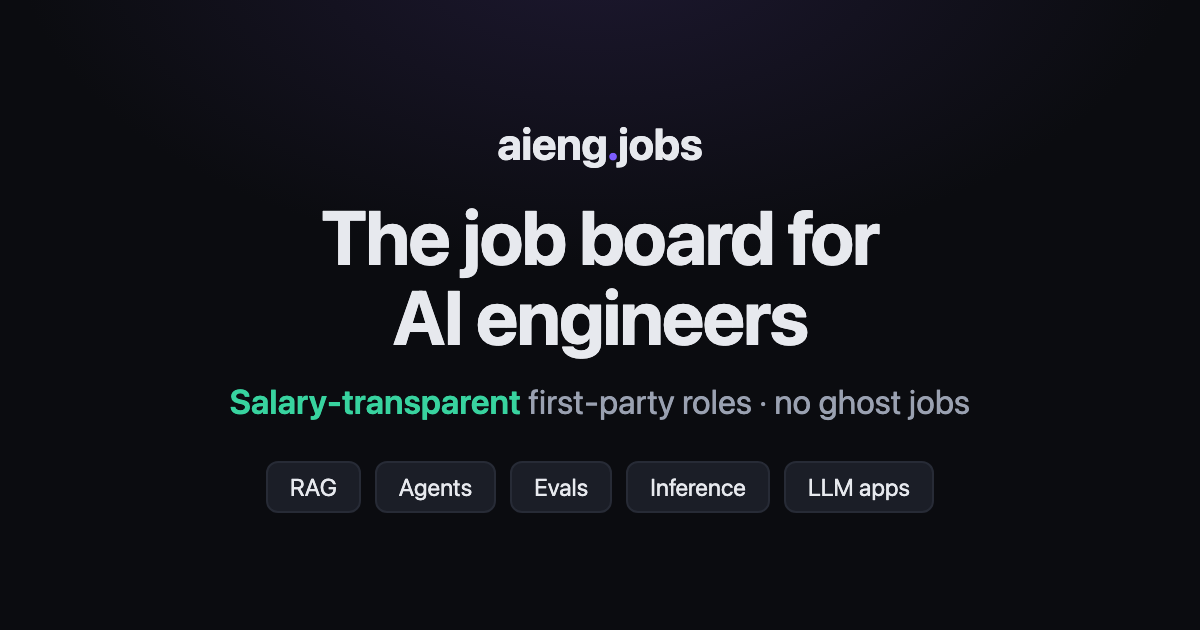
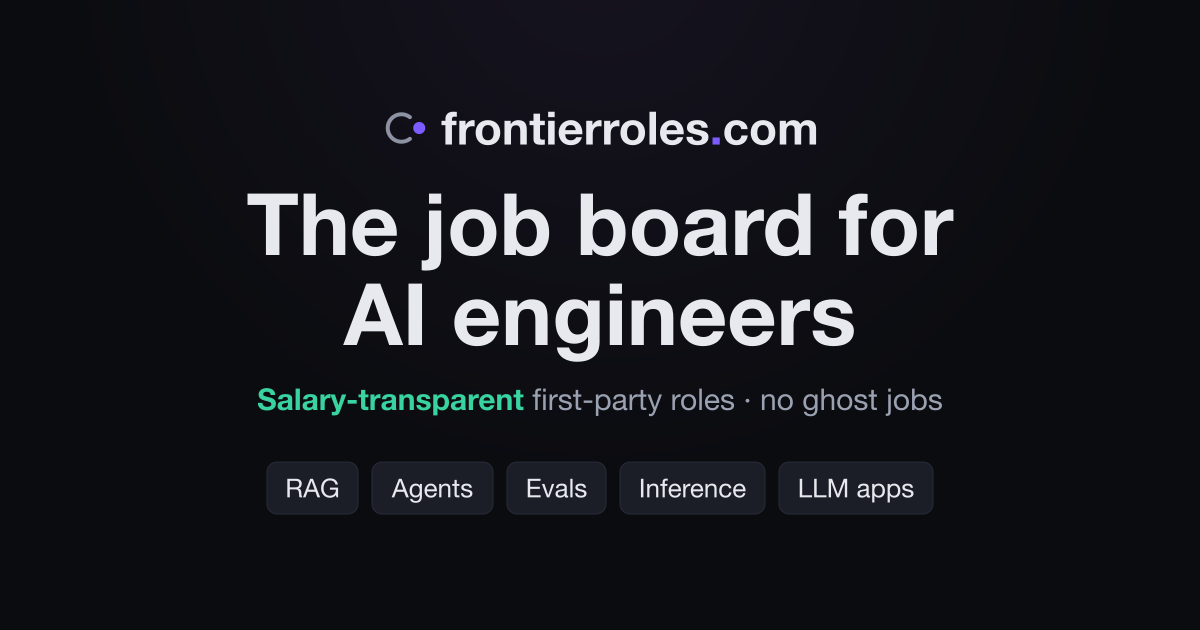
feat(brand): give the site a mark of its own
The favicon was still the node graph drawn for aieng.jobs, and
og-default.png still said "aieng.jobs" in 46px type — so every social
unfurl of frontierroles.com was advertising the old name.

Replaces both with "Crossing": an open ring with a solid dot that has
passed through the gap. A boundary and something already beyond it,
which is what the name means. Two elements only, no dashes and no
second dot, so it survives 16px and one-colour reproduction — checked
at true pixel size on both light and dark grounds before landing.

Production notes:

- favicon.svg ships transparent so it sits on the browser's own chrome,
  with prefers-color-scheme sharpening the ring for light and dark tab
  bars and a mid-tone base rule for anything that ignores the query.
  The dot stays #7c5cff; it carries on both grounds.
- apple-touch-icon.png is the opposite — full-bleed and opaque, because
  iOS composites transparency onto black and would swallow the mark.
- The geometry is re-cut from the presentation artwork so it is
  optically centred in a square, which a proof sheet doesn't need.

scripts/make-brand-assets.mjs renders all four outputs from one set of
numbers, so the favicon, the touch icon and the social card can't drift
apart. It needs sharp, which until now was only present transitively as
an optional dependency of astro, so that's declared at the root.

diff --git a/site/src/styles/global.css b/site/src/styles/global.css
@@ -101,8 +101,20 @@ a { color: inherit; text-decoration: none; }
   justify-content: space-between;
   height: 60px;
 }
-.brand { font-weight: 700; font-size: 1.05rem; letter-spacing: -0.01em; }
+.brand {
+  display: flex;
+  align-items: center;
+  gap: 8px;
+  font-weight: 700;
+  font-size: 1.05rem;
+  letter-spacing: -0.01em;
+}
 .brand .dot { color: var(--accent); }
+/* The artwork occupies 22.9 of the mark's 32-unit box vertically, so a 22px
+   box draws ~16px tall — level with the wordmark's em box rather than towering
+   over it. The ring inherits the header's text colour; only the dot is accent,
+   which is the same split the favicon uses. */
+.brand-mark { width: 22px; height: 22px; flex: none; }
 .site-nav { display: flex; gap: 10px; font-size: 0.9rem; }
 .site-nav a {
   color: var(--muted);
